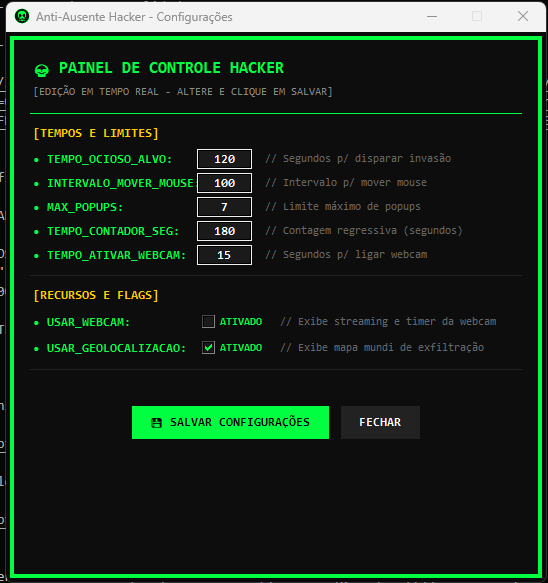
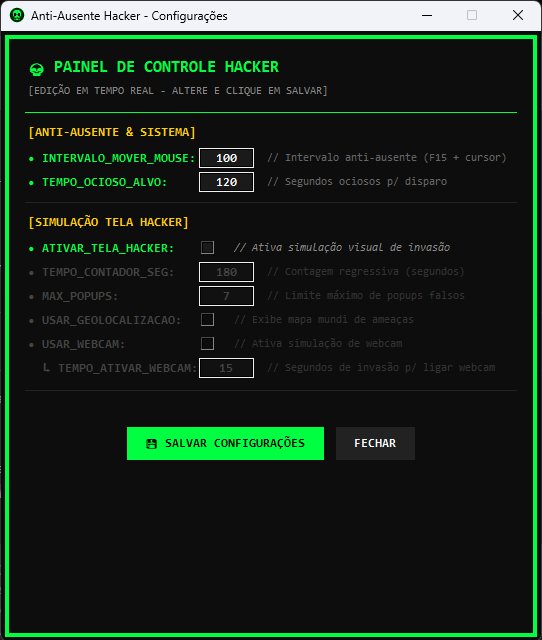
fix: nova organização da tela de configurações

diff --git a/visoes/visao_bandeja.py b/visoes/visao_bandeja.py
@@ -175,35 +175,35 @@ class VisaoBandeja:
         # Divisor
         tk.Frame(conteudo, bg="#00ff41", height=1).pack(fill=tk.X, padx=16, pady=6)
 
-        # Seção: Tempos e Limites
-        frame_tempos = tk.Frame(conteudo, bg='#0d0d0d')
-        frame_tempos.pack(fill=tk.X, padx=16, pady=2)
+        entradas = {}
+        labels_dinamicos = {}
+
+        # =========================================================================
+        # SEÇÃO 1: ANTI-AUSENTE & SISTEMA (Sempre ativos)
+        # =========================================================================
+        frame_sistema = tk.Frame(conteudo, bg='#0d0d0d')
+        frame_sistema.pack(fill=tk.X, padx=16, pady=2)
 
         tk.Label(
-            frame_tempos,
-            text="[TEMPOS E LIMITES]",
+            frame_sistema,
+            text="[ANTI-AUSENTE & SISTEMA]",
             fg="#ffcc00",
             bg="#0d0d0d",
             font=("Consolas", 10, "bold")
         ).pack(anchor="w", pady=(0, 4))
 
-        entradas = {}
-
-        campos_tempos = [
-            ("TEMPO_OCIOSO_ALVO", str(configuracao.TEMPO_OCIOSO_ALVO), "Segundos p/ disparar invasão"),
-            ("INTERVALO_MOVER_MOUSE", str(configuracao.INTERVALO_MOVER_MOUSE), "Intervalo p/ mover mouse"),
-            ("MAX_POPUPS", str(configuracao.MAX_POPUPS), "Limite máximo de popups"),
-            ("TEMPO_CONTADOR_SEG", str(configuracao.TEMPO_CONTADOR_SEG), "Contagem regressiva (segundos)"),
-            ("TEMPO_ATIVAR_WEBCAM", str(configuracao.TEMPO_ATIVAR_WEBCAM), "Segundos p/ ligar webcam"),
+        campos_sistema = [
+            ("INTERVALO_MOVER_MOUSE", str(configuracao.INTERVALO_MOVER_MOUSE), "Intervalo anti-ausente (F15 + cursor)"),
+            ("TEMPO_OCIOSO_ALVO", str(configuracao.TEMPO_OCIOSO_ALVO), "Segundos ociosos p/ disparo"),
         ]
 
-        for chave, val_ini, desc in campos_tempos:
-            linha = tk.Frame(frame_tempos, bg='#0d0d0d')
+        for chave, val_ini, desc in campos_sistema:
+            linha = tk.Frame(frame_sistema, bg='#0d0d0d')
             linha.pack(fill=tk.X, pady=2)
 
             tk.Label(
                 linha, text=f"• {chave}:", fg="#00ff41", bg="#0d0d0d",
-                font=("Consolas", 9, "bold"), width=23, anchor="w"
+                font=("Consolas", 9, "bold"), width=24, anchor="w"
             ).pack(side=tk.LEFT)
 
             ent = tk.Entry(
@@ -223,75 +223,188 @@ class VisaoBandeja:
         # Divisor
         tk.Frame(conteudo, bg="#222222", height=1).pack(fill=tk.X, padx=16, pady=6)
 
-        # Seção: Recursos e Flags
-        frame_flags = tk.Frame(conteudo, bg='#0d0d0d')
-        frame_flags.pack(fill=tk.X, padx=16, pady=2)
+        # =========================================================================
+        # SEÇÃO 2: SIMULAÇÃO TELA HACKER (Controlada pelo interruptor mestre)
+        # =========================================================================
+        frame_hacker = tk.Frame(conteudo, bg='#0d0d0d')
+        frame_hacker.pack(fill=tk.X, padx=16, pady=2)
 
         tk.Label(
-            frame_flags,
-            text="[RECURSOS E FLAGS]",
+            frame_hacker,
+            text="[SIMULAÇÃO TELA HACKER]",
             fg="#ffcc00",
             bg="#0d0d0d",
             font=("Consolas", 10, "bold")
         ).pack(anchor="w", pady=(0, 4))
 
-        var_webcam = tk.BooleanVar(value=bool(configuracao.USAR_WEBCAM))
-        var_geo = tk.BooleanVar(value=bool(configuracao.USAR_GEOLOCALIZACAO))
         var_tela_hacker = tk.BooleanVar(value=bool(configuracao.ATIVAR_TELA_HACKER))
+        var_geo = tk.BooleanVar(value=bool(configuracao.USAR_GEOLOCALIZACAO))
+        var_webcam = tk.BooleanVar(value=bool(configuracao.USAR_WEBCAM))
 
-        # Checkbox Tela Hacker
-        linha_hacker = tk.Frame(frame_flags, bg='#0d0d0d')
-        linha_hacker.pack(fill=tk.X, pady=2)
+        # 1. Interruptor Mestre da Tela Hacker
+        linha_mestre = tk.Frame(frame_hacker, bg='#0d0d0d')
+        linha_mestre.pack(fill=tk.X, pady=2)
         tk.Label(
-            linha_hacker, text="• ATIVAR_TELA_HACKER:", fg="#00ff41", bg="#0d0d0d",
-            font=("Consolas", 9, "bold"), width=23, anchor="w"
+            linha_mestre, text="• ATIVAR_TELA_HACKER:", fg="#00ff41", bg="#0d0d0d",
+            font=("Consolas", 9, "bold"), width=24, anchor="w"
         ).pack(side=tk.LEFT)
         cb_hacker = tk.Checkbutton(
-            linha_hacker, text="", variable=var_tela_hacker,
+            linha_mestre, text="", variable=var_tela_hacker,
             bg='#0d0d0d', fg='#00ff41', selectcolor='#1a1a1a', activebackground='#0d0d0d',
             activeforeground='#00ff41', bd=0, highlightthickness=0
         )
         cb_hacker.pack(side=tk.LEFT, padx=(0, 10))
         tk.Label(
-            linha_hacker, text="// Exibe tela hacker p/ inatividade", fg="#666666",
-            bg="#0d0d0d", font=("Consolas", 8), anchor="w"
+            linha_mestre, text="// Ativa simulação visual de invasão", fg="#888888",
+            bg="#0d0d0d", font=("Consolas", 8, "italic"), anchor="w"
         ).pack(side=tk.LEFT, fill=tk.X, expand=True)
 
-        # Checkbox Webcam
-        linha_webcam = tk.Frame(frame_flags, bg='#0d0d0d')
-        linha_webcam.pack(fill=tk.X, pady=2)
-        tk.Label(
-            linha_webcam, text="• USAR_WEBCAM:", fg="#00ff41", bg="#0d0d0d",
-            font=("Consolas", 9, "bold"), width=23, anchor="w"
-        ).pack(side=tk.LEFT)
-        cb_webcam = tk.Checkbutton(
-            linha_webcam, text="", variable=var_webcam,
-            bg='#0d0d0d', fg='#00ff41', selectcolor='#1a1a1a', activebackground='#0d0d0d',
-            activeforeground='#00ff41', bd=0, highlightthickness=0
-        )
-        cb_webcam.pack(side=tk.LEFT, padx=(0, 10))
-        tk.Label(
-            linha_webcam, text="// Exibe streaming e timer da webcam", fg="#666666",
-            bg="#0d0d0d", font=("Consolas", 8), anchor="w"
-        ).pack(side=tk.LEFT, fill=tk.X, expand=True)
+        # 2. Parâmetros visuais gerais (Contador e Popups)
+        campos_hacker_nums = [
+            ("TEMPO_CONTADOR_SEG", str(configuracao.TEMPO_CONTADOR_SEG), "Contagem regressiva (segundos)"),
+            ("MAX_POPUPS", str(configuracao.MAX_POPUPS), "Limite máximo de popups falsos"),
+        ]
+        for chave, val_ini, desc in campos_hacker_nums:
+            linha = tk.Frame(frame_hacker, bg='#0d0d0d')
+            linha.pack(fill=tk.X, pady=2)
 
-        # Checkbox Geolocalização
-        linha_geo = tk.Frame(frame_flags, bg='#0d0d0d')
+            lbl_chave = tk.Label(
+                linha, text=f"• {chave}:", fg="#00ff41", bg="#0d0d0d",
+                font=("Consolas", 9, "bold"), width=24, anchor="w"
+            )
+            lbl_chave.pack(side=tk.LEFT)
+
+            ent = tk.Entry(
+                linha, bg='#1a1a1a', fg='#ffffff', insertbackground='#00ff41',
+                font=("Consolas", 9, "bold"), width=7, justify="center", bd=1, relief="solid",
+                highlightcolor="#00ff41", highlightthickness=1
+            )
+            ent.insert(0, val_ini)
+            ent.pack(side=tk.LEFT, padx=(0, 10))
+            entradas[chave] = ent
+
+            lbl_desc = tk.Label(
+                linha, text=f"// {desc}", fg="#666666", bg="#0d0d0d",
+                font=("Consolas", 8), anchor="w"
+            )
+            lbl_desc.pack(side=tk.LEFT, fill=tk.X, expand=True)
+
+            labels_dinamicos[chave] = (lbl_chave, lbl_desc)
+
+        # 3. Checkbox Geolocalização
+        linha_geo = tk.Frame(frame_hacker, bg='#0d0d0d')
         linha_geo.pack(fill=tk.X, pady=2)
-        tk.Label(
+        lbl_geo_chave = tk.Label(
             linha_geo, text="• USAR_GEOLOCALIZACAO:", fg="#00ff41", bg="#0d0d0d",
-            font=("Consolas", 9, "bold"), width=23, anchor="w"
-        ).pack(side=tk.LEFT)
+            font=("Consolas", 9, "bold"), width=24, anchor="w"
+        )
+        lbl_geo_chave.pack(side=tk.LEFT)
         cb_geo = tk.Checkbutton(
             linha_geo, text="", variable=var_geo,
             bg='#0d0d0d', fg='#00ff41', selectcolor='#1a1a1a', activebackground='#0d0d0d',
             activeforeground='#00ff41', bd=0, highlightthickness=0
         )
         cb_geo.pack(side=tk.LEFT, padx=(0, 10))
-        tk.Label(
-            linha_geo, text="// Exibe mapa mundi de exfiltração", fg="#666666",
+        lbl_geo_desc = tk.Label(
+            linha_geo, text="// Exibe mapa mundi de ameaças", fg="#666666",
             bg="#0d0d0d", font=("Consolas", 8), anchor="w"
-        ).pack(side=tk.LEFT, fill=tk.X, expand=True)
+        )
+        lbl_geo_desc.pack(side=tk.LEFT, fill=tk.X, expand=True)
+
+        # 4. Checkbox Webcam
+        linha_webcam = tk.Frame(frame_hacker, bg='#0d0d0d')
+        linha_webcam.pack(fill=tk.X, pady=2)
+        lbl_webcam_chave = tk.Label(
+            linha_webcam, text="• USAR_WEBCAM:", fg="#00ff41", bg="#0d0d0d",
+            font=("Consolas", 9, "bold"), width=24, anchor="w"
+        )
+        lbl_webcam_chave.pack(side=tk.LEFT)
+        cb_webcam = tk.Checkbutton(
+            linha_webcam, text="", variable=var_webcam,
+            bg='#0d0d0d', fg='#00ff41', selectcolor='#1a1a1a', activebackground='#0d0d0d',
+            activeforeground='#00ff41', bd=0, highlightthickness=0
+        )
+        cb_webcam.pack(side=tk.LEFT, padx=(0, 10))
+        lbl_webcam_desc = tk.Label(
+            linha_webcam, text="// Ativa simulação de webcam", fg="#666666",
+            bg="#0d0d0d", font=("Consolas", 8), anchor="w"
+        )
+        lbl_webcam_desc.pack(side=tk.LEFT, fill=tk.X, expand=True)
+
+        # 5. Sub-opção: Tempo para Ativar Webcam (Indentada visualmente sob USAR_WEBCAM)
+        linha_tempo_cam = tk.Frame(frame_hacker, bg='#0d0d0d')
+        linha_tempo_cam.pack(fill=tk.X, pady=(2, 4))
+        lbl_cam_tempo_chave = tk.Label(
+            linha_tempo_cam, text="  ↳ TEMPO_ATIVAR_WEBCAM:", fg="#00ff41", bg="#0d0d0d",
+            font=("Consolas", 9, "bold"), width=24, anchor="w"
+        )
+        lbl_cam_tempo_chave.pack(side=tk.LEFT)
+
+        ent_cam_tempo = tk.Entry(
+            linha_tempo_cam, bg='#1a1a1a', fg='#ffffff', insertbackground='#00ff41',
+            font=("Consolas", 9, "bold"), width=7, justify="center", bd=1, relief="solid",
+            highlightcolor="#00ff41", highlightthickness=1
+        )
+        ent_cam_tempo.insert(0, str(configuracao.TEMPO_ATIVAR_WEBCAM))
+        ent_cam_tempo.pack(side=tk.LEFT, padx=(0, 10))
+        entradas["TEMPO_ATIVAR_WEBCAM"] = ent_cam_tempo
+
+        lbl_cam_tempo_desc = tk.Label(
+            linha_tempo_cam, text="// Segundos de invasão p/ ligar webcam", fg="#666666",
+            bg="#0d0d0d", font=("Consolas", 8), anchor="w"
+        )
+        lbl_cam_tempo_desc.pack(side=tk.LEFT, fill=tk.X, expand=True)
+
+        # =========================================================================
+        # REATIVIDADE DINÂMICA ENTRE AS OPÇÕES
+        # =========================================================================
+        def atualizar_estado_hacker():
+            """Habilita ou desabilita as opções secundárias com base no estado da tela hacker e da webcam."""
+            hacker_ativo = bool(var_tela_hacker.get())
+            estado_hacker = 'normal' if hacker_ativo else 'disabled'
+            estado_cb = 'normal' if hacker_ativo else 'disabled'
+
+            if not hacker_ativo:
+                var_webcam.set(False)
+                var_geo.set(False)
+
+            # Opções numéricas que dependem da tela hacker
+            for chave in ["TEMPO_CONTADOR_SEG", "MAX_POPUPS"]:
+                if chave in entradas:
+                    entradas[chave].config(
+                        state=estado_hacker,
+                        disabledbackground='#111111',
+                        disabledforeground='#444444'
+                    )
+                if chave in labels_dinamicos:
+                    lbl_ch, lbl_ds = labels_dinamicos[chave]
+                    lbl_ch.config(fg="#00ff41" if hacker_ativo else "#444444")
+                    lbl_ds.config(fg="#666666" if hacker_ativo else "#333333")
+
+            # Checkboxes de flags da tela hacker
+            cb_geo.config(state=estado_cb)
+            lbl_geo_chave.config(fg="#00ff41" if hacker_ativo else "#444444")
+            lbl_geo_desc.config(fg="#666666" if hacker_ativo else "#333333")
+
+            cb_webcam.config(state=estado_cb)
+            lbl_webcam_chave.config(fg="#00ff41" if hacker_ativo else "#444444")
+            lbl_webcam_desc.config(fg="#666666" if hacker_ativo else "#333333")
+
+            # O tempo da webcam depende de AMBOS: tela hacker ativa E webcam marcada
+            webcam_ativa = hacker_ativo and bool(var_webcam.get())
+            estado_tempo_cam = 'normal' if webcam_ativa else 'disabled'
+
+            ent_cam_tempo.config(
+                state=estado_tempo_cam,
+                disabledbackground='#111111',
+                disabledforeground='#444444'
+            )
+            lbl_cam_tempo_chave.config(fg="#00ff41" if webcam_ativa else "#444444")
+            lbl_cam_tempo_desc.config(fg="#666666" if webcam_ativa else "#333333")
+
+        cb_hacker.config(command=atualizar_estado_hacker)
+        cb_webcam.config(command=atualizar_estado_hacker)
+        atualizar_estado_hacker()
 
         # Divisor
         tk.Frame(conteudo, bg="#222222", height=1).pack(fill=tk.X, padx=16, pady=6)

diff --git a/configuracao.py b/configuracao.py
@@ -8,7 +8,7 @@ import os
 import socket
 
 # ================= TEMPOS E LIMITES =================
-TEMPO_OCIOSO_ALVO = 5 # Tempo em segundos sem interação para disparar a tela hacker
+TEMPO_OCIOSO_ALVO = 120 # Tempo em segundos sem interação para disparar a tela hacker
 INTERVALO_MOVER_MOUSE = 100 # Intervalo em segundos para movimentação preventiva do mouse (Anti-Teams)
 MAX_POPUPS = 7 # Limite máximo simultâneo de janelas de erro falsas
 TEMPO_CONTADOR_SEG = 180 # Duração da contagem regressiva em segundos (3 minutos)
@@ -16,7 +16,7 @@ TEMPO_ATIVAR_WEBCAM = 15 # Segundos decorridos da invasão até ligar a webcam
 
 # ================= RECURSOS E FLAGS =================
 USAR_WEBCAM = False # Ativa ou desativa o streaming falso da webcam
-USAR_GEOLOCALIZACAO = True # Ativa ou desativa a geolocalização e o mapa mundial de ataques
+USAR_GEOLOCALIZACAO = False # Ativa ou desativa a geolocalização e o mapa mundial de ataques
 ATIVAR_TELA_HACKER = False # Se True, exibe a tela hacker ao atingir o tempo ocioso; se False, apenas roda o anti-ausente silencioso
 
 # ================= IDENTIFICAÇÃO DO SISTEMA =================

diff --git a/README.md b/README.md
@@ -100,25 +100,27 @@ Pressione a tecla **`ESC`** para fechar a simulação e retornar instantaneament
 As configurações podem ser alteradas de duas maneiras:
 
 1. **Pela Interface Gráfica (Recomendado):**
-   - Clique com o botão direito no ícone da bandeja e selecione **"⚙ Ver / Editar Configurações"**.
-   - Alterne a opção **"Ativar Tela Hacker (Simulação de Invasão)"**:
-     - **Marcado:** Dispara a simulação hacker completa quando o tempo ocioso for atingido.
-     - **Desmarcado (Modo Silencioso):** Não abre nenhuma tela ou som, executando apenas o anti-ausente (F15 + `SetThreadExecutionState` + micro-movimentos do mouse).
-   - Altere os valores desejados e clique em **"💾 SALVAR CONFIGURAÇÕES"** (a janela será fechada e as opções aplicadas na hora).
+   - Clique com o botão direito no ícone da caveirinha na bandeja e selecione **"⚙ Ver / Editar Configurações"**.
+   - O painel é dividido hierarquicamente em duas seções com **reatividade dinâmica**:
+     - **`[ANTI-AUSENTE & SISTEMA]` (Sempre ativos):** Ajuste do `INTERVALO_MOVER_MOUSE` (frequência do ciclo anti-ausente) e do `TEMPO_OCIOSO_ALVO` (tempo sem interação para disparo).
+     - **`[SIMULAÇÃO TELA HACKER]` (Interruptor mestre):**
+       - **Marcado (`True`):** Habilita todos os recursos visuais da pegadinha hacker (contador regressivo, limite de popups falsos e mapa mundial de ameaças). O campo `TEMPO_ATIVAR_WEBCAM` fica condicionado ao checkbox `USAR_WEBCAM` (só habilita quando a webcam estiver marcada).
+       - **Desmarcado (`False` - Modo Silencioso):** Desabilita visualmente todas as opções da tela hacker, reseta os checkboxes secundários para `False` e executa apenas o anti-ausente corporativo (F15 + `SetThreadExecutionState` + micro-movimentos do cursor) sem nenhuma janela ou alerta sonoro.
+   - Altere os valores desejados e clique em **"💾 SALVAR CONFIGURAÇÕES"** (a janela fecha e aplica as mudanças instantaneamente).
 
 2. **Pelo arquivo `configuracao.py`:**
    ```python
    # ================= TEMPOS E LIMITES =================
-   TEMPO_OCIOSO_ALVO = 120       # Segundos sem interação para disparar a tela hacker
+   TEMPO_OCIOSO_ALVO = 120       # Tempo em segundos sem interação para disparar a tela hacker
    INTERVALO_MOVER_MOUSE = 100   # Intervalo em segundos para o ciclo anti-ausente (F15 + SetThreadExecutionState + movimento do cursor)
-   MAX_POPUPS = 7                # Limite máximo de janelas de erro falsas
-   TEMPO_CONTADOR_SEG = 180      # Duração da contagem regressiva em segundos
-   TEMPO_ATIVAR_WEBCAM = 15      # Segundos até ativar a simulação de webcam
+   MAX_POPUPS = 7                # Limite máximo simultâneo de janelas de erro falsas
+   TEMPO_CONTADOR_SEG = 180      # Duração da contagem regressiva em segundos (3 minutos)
+   TEMPO_ATIVAR_WEBCAM = 15      # Segundos decorridos da invasão até ligar a webcam
 
    # ================= RECURSOS E FLAGS =================
-   ATIVAR_TELA_HACKER = True     # Se True dispara a tela hacker; se False roda apenas o anti-ausente silencioso (F15 + mouse)
-   USAR_WEBCAM = False           # Ativa ou desativa a simulação de webcam
-   USAR_GEOLOCALIZACAO = True    # Ativa ou desativa o mapa mundial de ataques
+   ATIVAR_TELA_HACKER = False    # Se True, exibe a tela hacker; se False, roda apenas o anti-ausente silencioso
+   USAR_GEOLOCALIZACAO = False   # Ativa ou desativa a geolocalização e o mapa mundial de ataques
+   USAR_WEBCAM = False           # Ativa ou desativa o streaming falso da webcam
    ```
 
 ---
